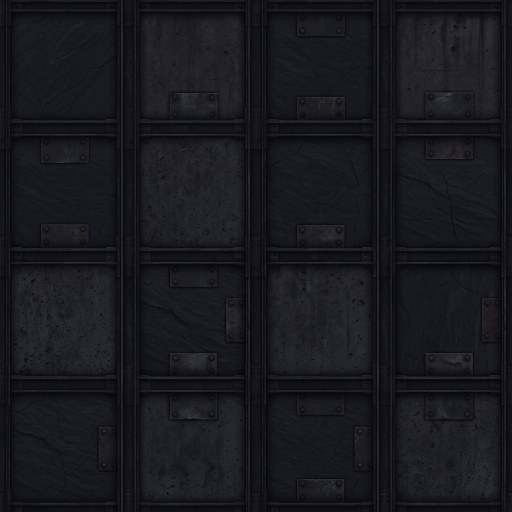
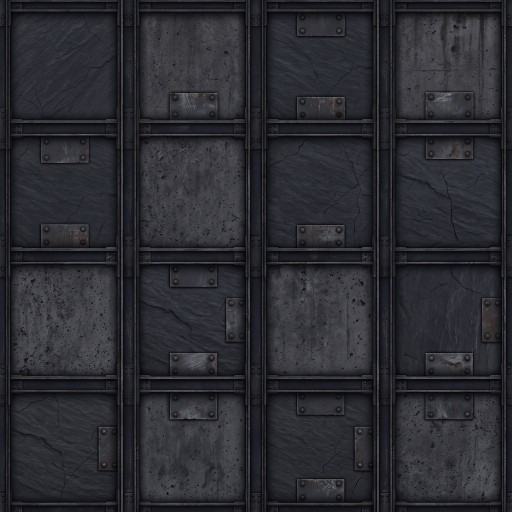
改用「挖开黑暗」的方式合成光照，取代原先的加法叠加
原先把光照图以 lighter 加法叠在场景上，核心区 alpha 接近 1，直接把像素
推到饱和 —— 亮区被烧成一片平米黄，砖纹全部消失，出现「被照亮的地方
反而比暗处更没细节」的反常结果。

现改为：场景照常绘制 → 盖一层近黑的阴影 → 用光照图的 alpha 把阴影
挖开。亮处呈现素材本来的质感与明暗，暗处才被压下去，光的衰减也自然了。
另保留 0.2 强度的暖色辉光做氛围。

配套调整：
- 墙体与背景不再预先重压暗（0.62/0.68 → 0.20/0.30），压暗改由阴影层
  负责，否则亮区会二次变暗、纹理依旧灰死
- 阴影强度取 0.88 而非全黑：暗处的地形仍需可读，否则影灵看不见脚下
- 暗角由 0.55 降到 0.32，避免与阴影层叠加过重
- 机关门从墙体层拆出，改在阴影之后绘制 —— 机关是关键信息，不应被压黑
- 两盏灯改为按高度统一尺寸；两张贴图长宽比不同，按宽度对齐会一大一小

16 关回归全部通过。

Claude-Session: https://claude.ai/code/session_01CGt4YuyMGXBHzwXhchHEHk

diff --git a/src/engine.js b/src/engine.js
@@ -608,10 +608,29 @@
     drawTiles();
 
     if (lightDirty) renderLightMap();
-    ctx.globalCompositeOperation = 'lighter';
+
+    // 关键：光不是加上去的，而是把盖在场景上的黑暗「挖」开。
+    // 加法合成会把亮区推到饱和，纹理全被烧掉 —— 照亮的地方反而比暗处更没细节。
+    shadowCtx.setTransform(1, 0, 0, 1, 0, 0);
+    shadowCtx.globalCompositeOperation = 'source-over';
+    shadowCtx.clearRect(0, 0, shadowCanvas.width, shadowCanvas.height);
+    shadowCtx.fillStyle = 'rgba(5, 5, 13, 0.88)';   // 别压到纯黑，暗处的地形仍要可读
+    shadowCtx.fillRect(0, 0, shadowCanvas.width, shadowCanvas.height);
+    shadowCtx.globalCompositeOperation = 'destination-out';
+    shadowCtx.drawImage(lightCanvas, 0, 0);          // 光照图的 alpha 就是「挖掉多少」
+    shadowCtx.globalCompositeOperation = 'source-over';
+    ctx.save();
+    ctx.setTransform(1, 0, 0, 1, 0, 0);
+    ctx.drawImage(shadowCanvas, 0, 0);
+    ctx.restore();
+
+    ctx.globalCompositeOperation = 'lighter';        // 只留一点暖色辉光做氛围
+    ctx.globalAlpha = 0.20;
     ctx.drawImage(lightCanvas, 0, 0, L.w, L.h);
+    ctx.globalAlpha = 1;
     ctx.globalCompositeOperation = 'source-over';
 
+    drawGates();
     drawPlates();
     drawDoor(L.doors.umbra, 'umbra', L.umbra.atDoor);
     drawDoor(L.doors.lumen, 'lumen', L.lumen.atDoor);
@@ -645,7 +664,7 @@
       var g = vc.createRadialGradient(L.w / 2, L.h / 2, Math.min(L.w, L.h) * 0.35,
                                       L.w / 2, L.h / 2, Math.max(L.w, L.h) * 0.72);
       g.addColorStop(0, 'rgba(0, 0, 0, 0)');
-      g.addColorStop(1, 'rgba(0, 0, 0, 0.55)');
+      g.addColorStop(1, 'rgba(0, 0, 0, 0.32)');
       vc.fillStyle = g;
       vc.fillRect(0, 0, L.w, L.h);
     }
@@ -653,6 +672,7 @@
   }
 
   var vignette = null;
+  var shadowCanvas = null, shadowCtx = null;
 
   // 素材是可选的：任何一张加载失败都只是回退到程序绘制，不影响游戏运行
   var ART = {};
@@ -725,7 +745,11 @@
     if (!tileLayer || tileLayerArt !== !!ART.wall) { tileLayerArt = !!ART.wall; renderTileLayer(); }
     ctx.drawImage(tileLayer, 0, 0, L.w, L.h);
 
-    for (var ty = 0; ty < L.rows; ty++) {          // 墙已经在离屏图里，这里只画会动的机关门
+  }
+
+  function drawGates() {
+    var L = level;
+    for (var ty = 0; ty < L.rows; ty++) {
       for (var tx = 0; tx < L.cols; tx++) {
         var g = L.gateGroup[ty * L.cols + tx];
         if (g < 0) continue;
@@ -880,8 +904,8 @@
       var artLamp = lamp.fixed ? ART.lampFixed : ART.lampPush;
       if (artLamp) {
         // 贴图灯：按原比例画，底边对齐碰撞盒底部（碰撞盒仍是 30x30，贴图只是外观）
-        var lw = lamp.w + 4;
-        var lh = lw * artLamp.naturalHeight / artLamp.naturalWidth;
+        var lh = 46;                                  // 按高度统一，两张贴图长宽比不同
+        var lw = lh * artLamp.naturalWidth / artLamp.naturalHeight;
         ctx.drawImage(artLamp, cx - lw / 2, lamp.y + lamp.h - lh, lw, lh);
         var core = ctx.createRadialGradient(cx, cy - lh * 0.18, 0, cx, cy - lh * 0.18, lw * 0.75);
         core.addColorStop(0, 'rgba(255, 246, 214, 0.95)');   // 灯芯：正好盖住玻璃罩里的残留
@@ -1171,8 +1195,9 @@
     if (!force && Math.abs(s - renderScale) < 0.01) return;
     renderScale = s;
     var pw = Math.round(level.w * s), ph = Math.round(level.h * s);
-    canvas.width = lightCanvas.width = lampCanvas.width = pw;
-    canvas.height = lightCanvas.height = lampCanvas.height = ph;
+    if (!shadowCanvas) { shadowCanvas = document.createElement('canvas'); shadowCtx = shadowCanvas.getContext('2d'); }
+    canvas.width = lightCanvas.width = lampCanvas.width = shadowCanvas.width = pw;
+    canvas.height = lightCanvas.height = lampCanvas.height = shadowCanvas.height = ph;
     [ctx, lightCtx, lampCtx].forEach(function (c) {
       c.imageSmoothingEnabled = true;
       c.imageSmoothingQuality = 'high';
